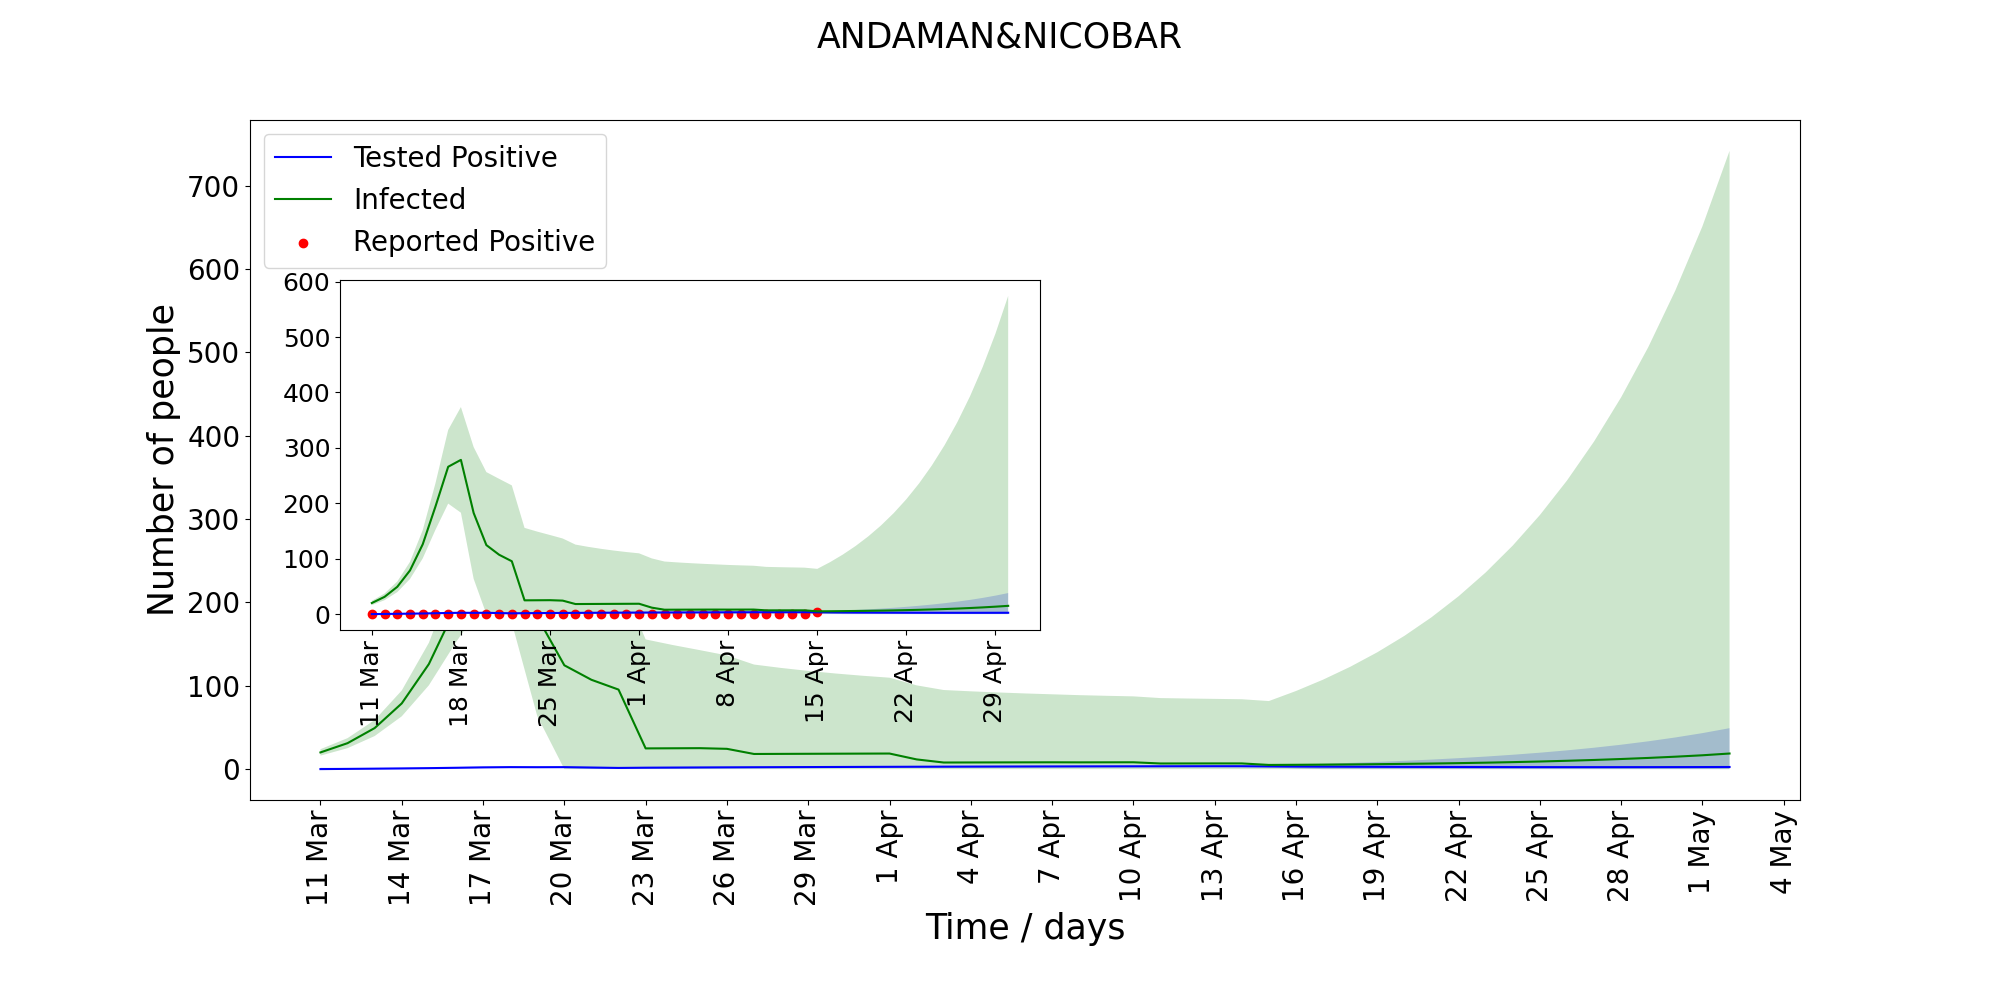
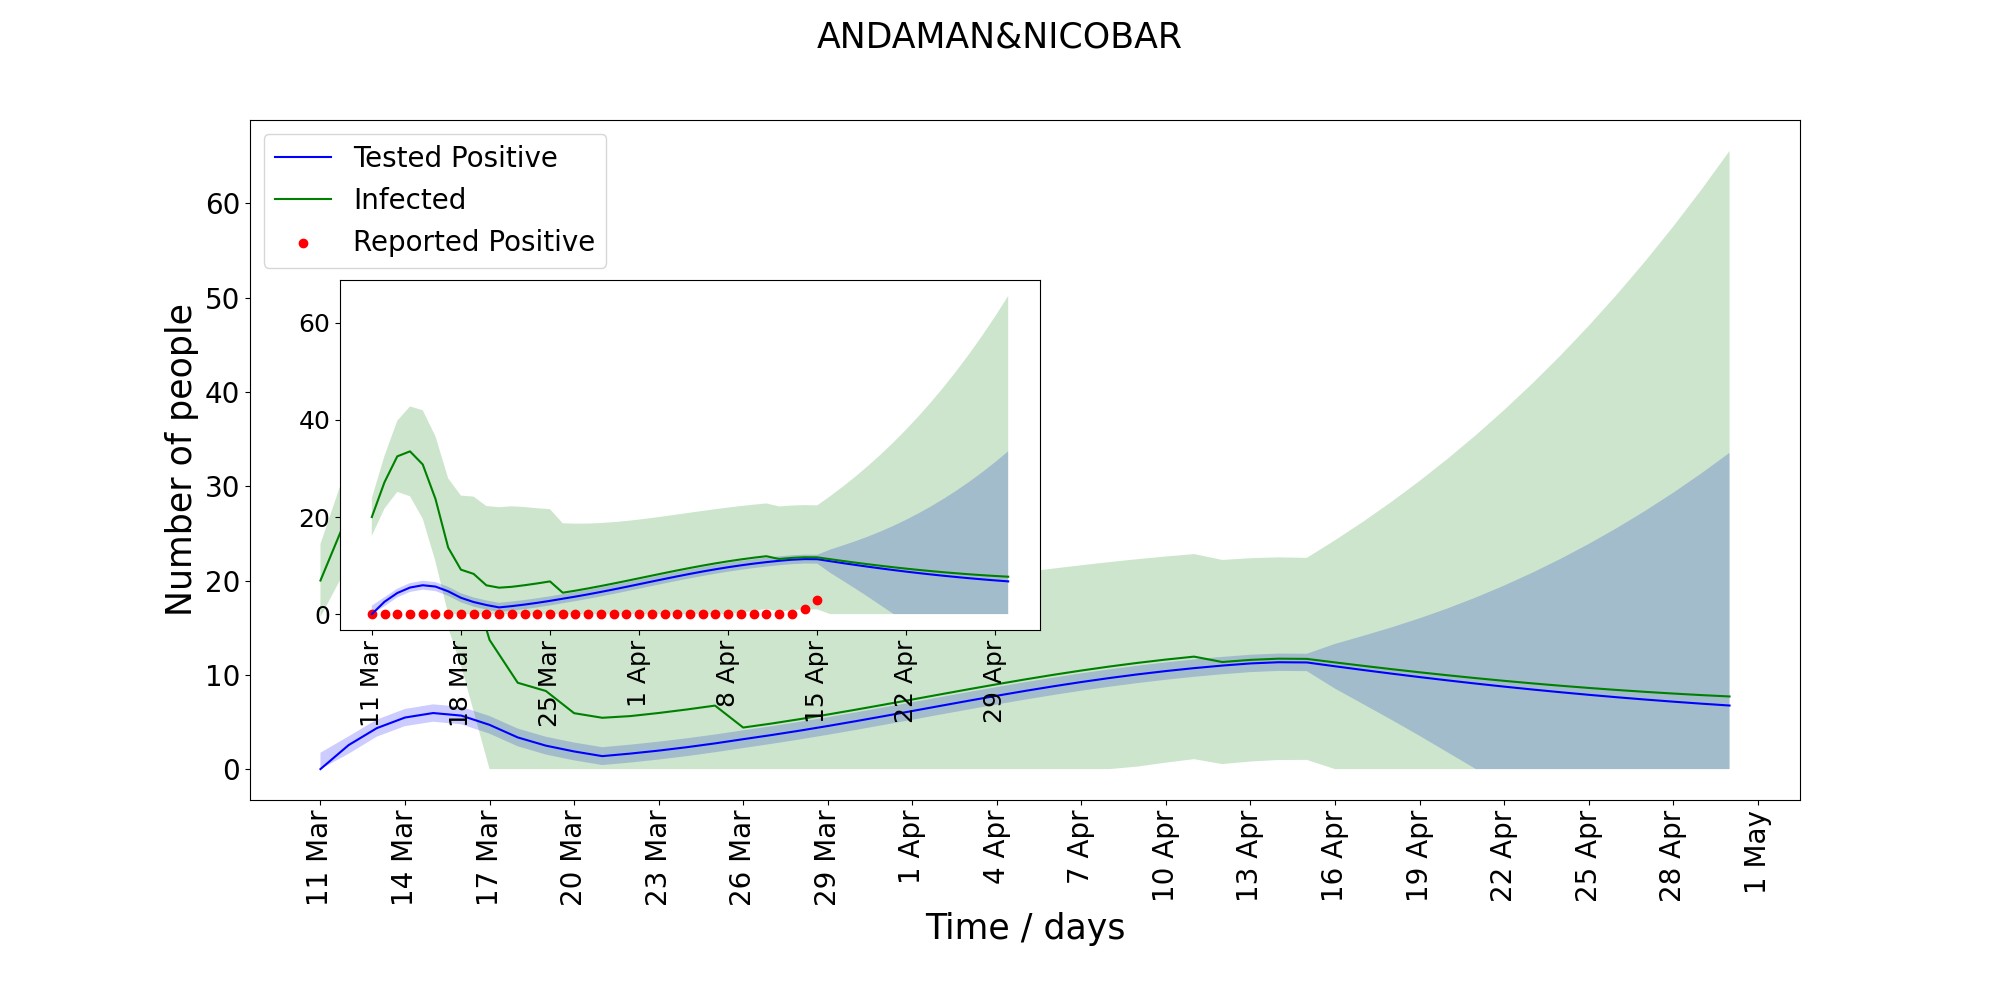
fixed bug and added new beta values

diff --git a/Model.py b/Model.py
@@ -321,7 +321,7 @@ class SpaxireAgeStratified () :
 
         # testing rates for presymptomatics, symptomatics and asymptomatics respectively
         testFrac1 = 3 * self.testingFraction1(t) / 8
-        testFrac2 = 5 * testingFraction1(t) / (8 - 3 * testingFraction1(t))
+        testFrac2 = 5 * self.testingFraction1(t) / (8 - 3 * self.testingFraction1(t))
         testFrac3 = self.testingFraction3(t)
 
 
